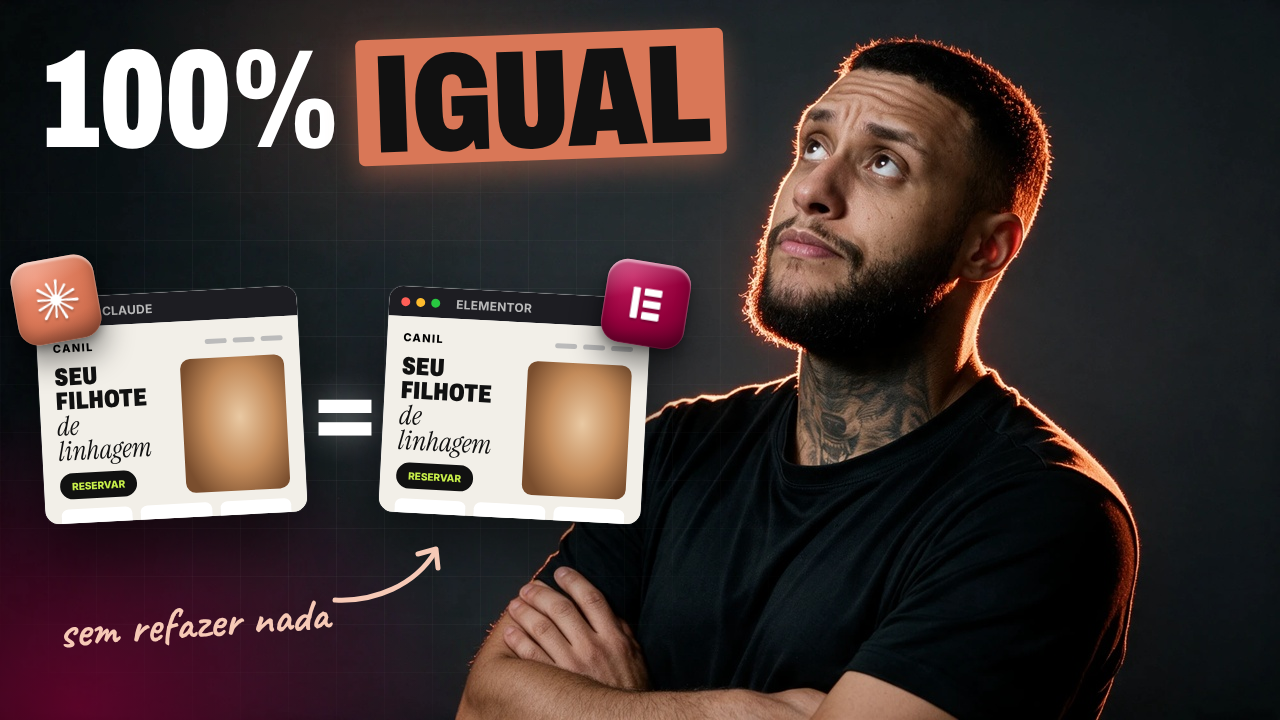
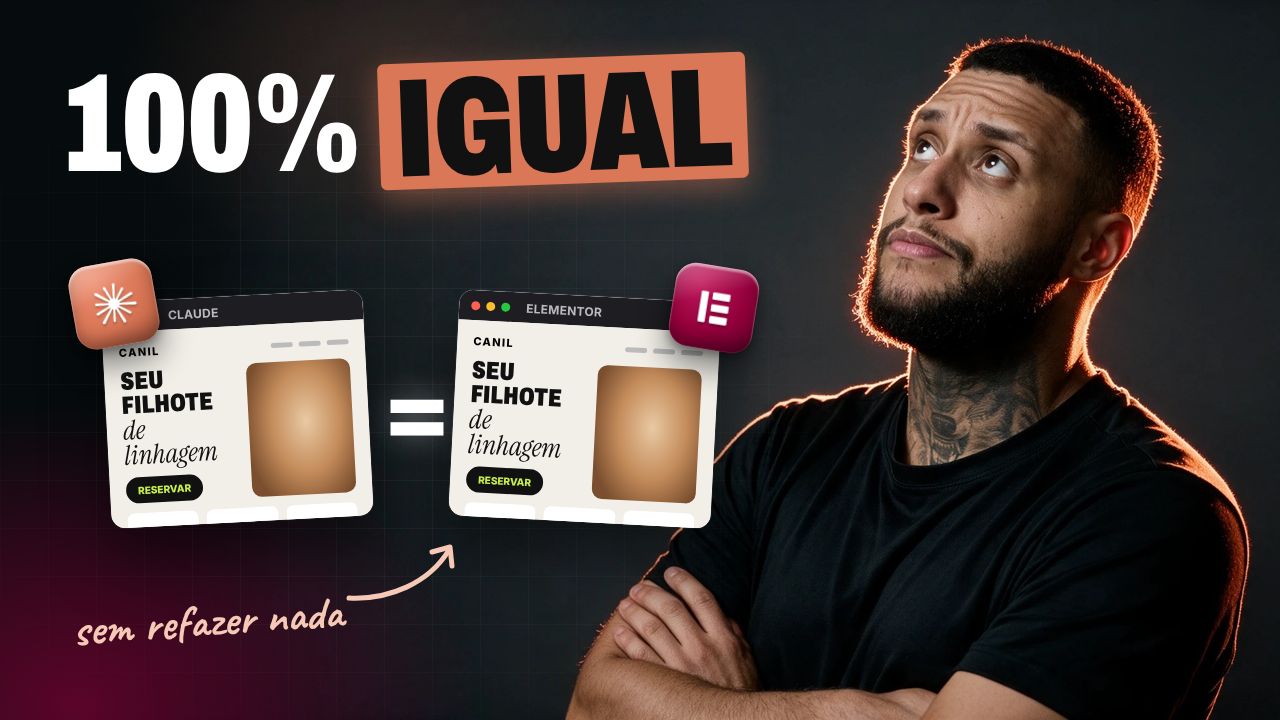
Teste 01: margens de segurança de 64 px e personagem preenchendo a lateral
Claude-Session: https://claude.ai/code/session_01Aans8n4CX1hxuNjUjYr9zS

diff --git a/thumbnails/teste-01/A.html b/thumbnails/teste-01/A.html
@@ -1,14 +1,15 @@
 <!doctype html><html><head><meta charset="utf-8"><link rel="stylesheet" href="shared.css">
 <style>
-.bg{position:absolute;inset:0;background:url(assets/fundo-A.jpg) center/cover}
+.bg{position:absolute;inset:0;background:#060b0d url(assets/fundo-A.jpg) no-repeat 110px 0/1280px 720px}
+.bg::before{content:"";position:absolute;left:100px;top:0;width:180px;height:100%;background:linear-gradient(90deg,#060b0d,rgba(6,11,13,0))}
 .glow{position:absolute;inset:0;background:radial-gradient(45% 60% at 6% 98%,rgba(146,0,59,.6) 0%,rgba(146,0,59,0) 70%),radial-gradient(30% 40% at 30% 10%,rgba(217,119,87,.18) 0%,rgba(217,119,87,0) 70%)}
 .grid{position:absolute;inset:0;background-image:linear-gradient(rgba(255,255,255,.045) 1px,transparent 1px),linear-gradient(90deg,rgba(255,255,255,.045) 1px,transparent 1px);background-size:48px 48px;-webkit-mask:radial-gradient(55% 75% at 28% 55%,#000 25%,transparent 75%)}
 .panels{position:absolute;right:0;top:0;width:520px;height:100%;background:repeating-linear-gradient(90deg,rgba(255,255,255,.035) 0 2px,transparent 2px 34px);-webkit-mask:linear-gradient(90deg,transparent,#000 40%)}
-.title{left:42px;top:34px;font-family:"Archivo";font-weight:900;font-stretch:68%;font-size:140px;line-height:.86;color:#fff;letter-spacing:-.01em;text-transform:uppercase;display:flex;gap:18px;align-items:flex-end}
+.title{left:64px;top:58px;font-family:"Archivo";font-weight:900;font-stretch:68%;font-size:140px;line-height:.86;color:#fff;letter-spacing:-.01em;text-transform:uppercase;display:flex;gap:18px;align-items:flex-end}
 .title .hl{background:#D97757;color:#111;padding:6px 16px 0;border-radius:6px;transform:rotate(-2deg);box-shadow:0 10px 30px rgba(217,119,87,.45)}
-.eq{left:312px;top:356px;font:900 100px "Archivo";color:#fff;text-shadow:0 0 30px rgba(255,255,255,.35)}
-.note{left:58px;top:600px;font-size:46px;color:#F6C9B6;transform:rotate(-4deg)}
-.arrow{left:330px;top:540px}
+.eq{left:384px;top:356px;font:900 100px "Archivo";color:#fff;text-shadow:0 0 30px rgba(255,255,255,.35)}
+.note{left:72px;top:598px;font-size:46px;color:#F6C9B6;transform:rotate(-4deg)}
+.arrow{left:344px;top:538px}
 .person{height:770px;right:-70px;top:22px}
 .person .back{position:absolute;inset:-4%;-webkit-mask:url(assets/voce-cetico.png) center/92% 92% no-repeat;background:#D97757;filter:blur(38px);opacity:.75;transform:translate(30px,-10px)}
 .person .rim{background:#FFB08F;transform:translate(7px,-3px);filter:blur(3px);opacity:.95}
@@ -17,21 +18,21 @@
 </style></head><body><div class="thumb">
 <div class="bg"></div><div class="glow"></div><div class="grid"></div>
 
-<div class="win" style="left:40px;top:292px;width:262px;height:226px;transform:rotate(-3deg)">
+<div class="win" style="left:106px;top:296px;width:262px;height:226px;transform:rotate(-3deg)">
   <div class="bar"><i></i><i></i><i></i><span>CLAUDE</span></div>
   <div class="lp"><div class="nav"><b>CANIL</b><span><i></i><i></i><i></i></span></div>
   <div class="hero"><div><h3>Seu filhote <em>de linhagem</em></h3><span class="btn">RESERVAR</span></div><div class="img"></div></div>
   <div class="cards"><i></i><i></i><i></i></div></div>
 </div>
-<div class="win" style="left:384px;top:292px;width:262px;height:226px;transform:rotate(3deg)">
+<div class="win" style="left:454px;top:296px;width:262px;height:226px;transform:rotate(3deg)">
   <div class="bar"><i></i><i></i><i></i><span>ELEMENTOR</span></div>
   <div class="lp"><div class="nav"><b>CANIL</b><span><i></i><i></i><i></i></span></div>
   <div class="hero"><div><h3>Seu filhote <em>de linhagem</em></h3><span class="btn">RESERVAR</span></div><div class="img"></div></div>
   <div class="cards"><i></i><i></i><i></i></div></div>
 </div>
 <div class="abs eq">=</div>
-<div class="icon3d ic-claude" style="left:14px;top:258px;width:84px;height:84px;transform:rotate(-10deg)"><svg class="sb"></svg></div>
-<div class="icon3d ic-elementor" style="left:604px;top:262px;width:84px;height:84px;transform:rotate(9deg)"><svg class="el"></svg></div>
+<div class="icon3d ic-claude" style="left:72px;top:262px;width:84px;height:84px;transform:rotate(-10deg)"><svg class="sb"></svg></div>
+<div class="icon3d ic-elementor" style="left:672px;top:266px;width:84px;height:84px;transform:rotate(9deg)"><svg class="el"></svg></div>
 
 
 <div class="abs title"><span>100%</span><span class="hl">IGUAL</span></div>

diff --git a/thumbnails/teste-01/B.html b/thumbnails/teste-01/B.html
@@ -3,21 +3,21 @@
 .bg{position:absolute;inset:0;background:#C8F04A}
 .grid{position:absolute;inset:0;background-image:linear-gradient(rgba(0,0,0,.07) 1px,transparent 1px),linear-gradient(90deg,rgba(0,0,0,.07) 1px,transparent 1px);background-size:40px 40px}
 .vig{position:absolute;inset:0;background:radial-gradient(80% 90% at 30% 50%,rgba(255,255,255,.25),rgba(0,0,0,.12))}
-.big{left:46px;top:28px;font-family:"Archivo";font-weight:900;font-stretch:66%;font-size:230px;line-height:.82;color:#111;text-transform:uppercase;letter-spacing:-.015em}
-.serif{left:52px;top:236px;font-family:"Instrument Serif";font-style:italic;font-size:60px;color:#111;line-height:1}
+.big{left:64px;top:52px;font-family:"Archivo";font-weight:900;font-stretch:66%;font-size:230px;line-height:.82;color:#111;text-transform:uppercase;letter-spacing:-.015em}
+.serif{left:70px;top:258px;font-family:"Instrument Serif";font-style:italic;font-size:60px;color:#111;line-height:1}
 .serif u{text-decoration:none;position:relative}
 .serif u::after{content:"";position:absolute;left:-6px;right:-10px;bottom:-4px;height:68px;border:4px solid #111;border-radius:50%;transform:rotate(-3deg)}
 .person{height:690px;width:725px;right:-96px;top:34px;filter:drop-shadow(0 0 0 #fff) drop-shadow(5px 0 0 #fff) drop-shadow(-5px 0 0 #fff) drop-shadow(0 -5px 0 #fff) drop-shadow(14px 14px 0 #111)}
 .person img{filter:contrast(1.08) saturate(1.05)}
-.flowarrow{left:228px;top:410px}
+.flowarrow{left:240px;top:428px}
 .note{left:250px;top:575px;font-size:44px;color:#111;transform:rotate(-5deg)}
 </style></head><body><div class="thumb">
 <div class="bg"></div><div class="grid"></div><div class="vig"></div>
 <div class="abs big">1 SKILL</div>
 <div class="abs serif">do Claude pro <u>Elementor</u></div>
-<div class="icon3d ic-claude" style="left:60px;top:378px;width:160px;height:160px;transform:rotate(-8deg)"><svg class="sb"></svg></div>
+<div class="icon3d ic-claude" style="left:72px;top:396px;width:160px;height:160px;transform:rotate(-8deg)"><svg class="sb"></svg></div>
 <svg class="abs flowarrow" width="170" height="110" viewBox="0 0 170 110"><path d="M8 70 C 50 10, 110 10, 150 55" stroke="#111" stroke-width="8" fill="none" stroke-linecap="round"/><path d="M124 52 L152 58 L150 28" stroke="#111" stroke-width="8" fill="none" stroke-linecap="round" stroke-linejoin="round"/></svg>
-<div class="icon3d ic-elementor" style="left:390px;top:392px;width:160px;height:160px;transform:rotate(7deg)"><svg class="el"></svg></div>
-<div class="stamp" style="left:150px;top:600px;transform:rotate(-4deg)">PIXEL PERFEITO</div>
+<div class="icon3d ic-elementor" style="left:402px;top:410px;width:160px;height:160px;transform:rotate(7deg)"><svg class="el"></svg></div>
+<div class="stamp" style="left:162px;top:604px;transform:rotate(-4deg)">PIXEL PERFEITO</div>
 <div class="person"><img src="assets/voce-apontando.png"></div>
 </div><script src="icons.js"></script></body></html>

diff --git a/thumbnails/PLAYBOOK.md b/thumbnails/PLAYBOOK.md
@@ -14,6 +14,7 @@ Formato dos vídeos: longos, sem edição pesada, densos em conteúdo. Logo, **a
 | Rosto | Rosto grande, expressão legível (≥ 25–35% da altura) | Capas com rosto expressivo performam consistentemente acima das sem rosto |
 | Foco | **1 ideia, 1 ponto focal, no máximo 3 elementos** | Olho decide em menos de 1 s |
 | Contraste | Fundo × sujeito × texto em 3 camadas de valor (claro/médio/escuro) | Feed do YouTube é branco/preto; capa precisa "furar" os dois temas |
+| Margem de segurança | **64 px** (5% de 1280) em cima e nas laterais para texto, ícones e cards. Embaixo, o personagem pode sangrar. Personagem pode encostar/sangrar na borda direita; espaço vazio de fundo na lateral é erro | Elemento colado na borda parece cortado; vazio na lateral desequilibra a composição |
 | Zona proibida | Canto inferior direito (duração) e faixa inferior (barra de progresso de "já assistido") | Elementos ali somem |
 | Specs | 1280×720, 16:9, JPG/PNG, < 2 MB | Padrão |
 | Vencedor de A/B | YouTube **Test & Compare** escolhe por **watch time share**, não CTR | Capa enganosa (CTR alto, retenção baixa) perde. Clickbait não compensa |
@@ -147,6 +148,7 @@ Depois de ~8 testes, os padrões vencedores do **seu** público mandam mais que 
 
 ## 9. Checklist final antes de subir
 
+- [ ] Margem de 64 px em cima e nas laterais (nada de texto/ícone colado na borda, nada de faixa vazia)
 - [ ] Lê a 20% do tamanho (teste: zoom out até ~170 px de largura)
 - [ ] Máx. 4 palavras na capa, nenhuma repetida no título
 - [ ] Rosto com expressão exagerada, ≥ 25% da altura
